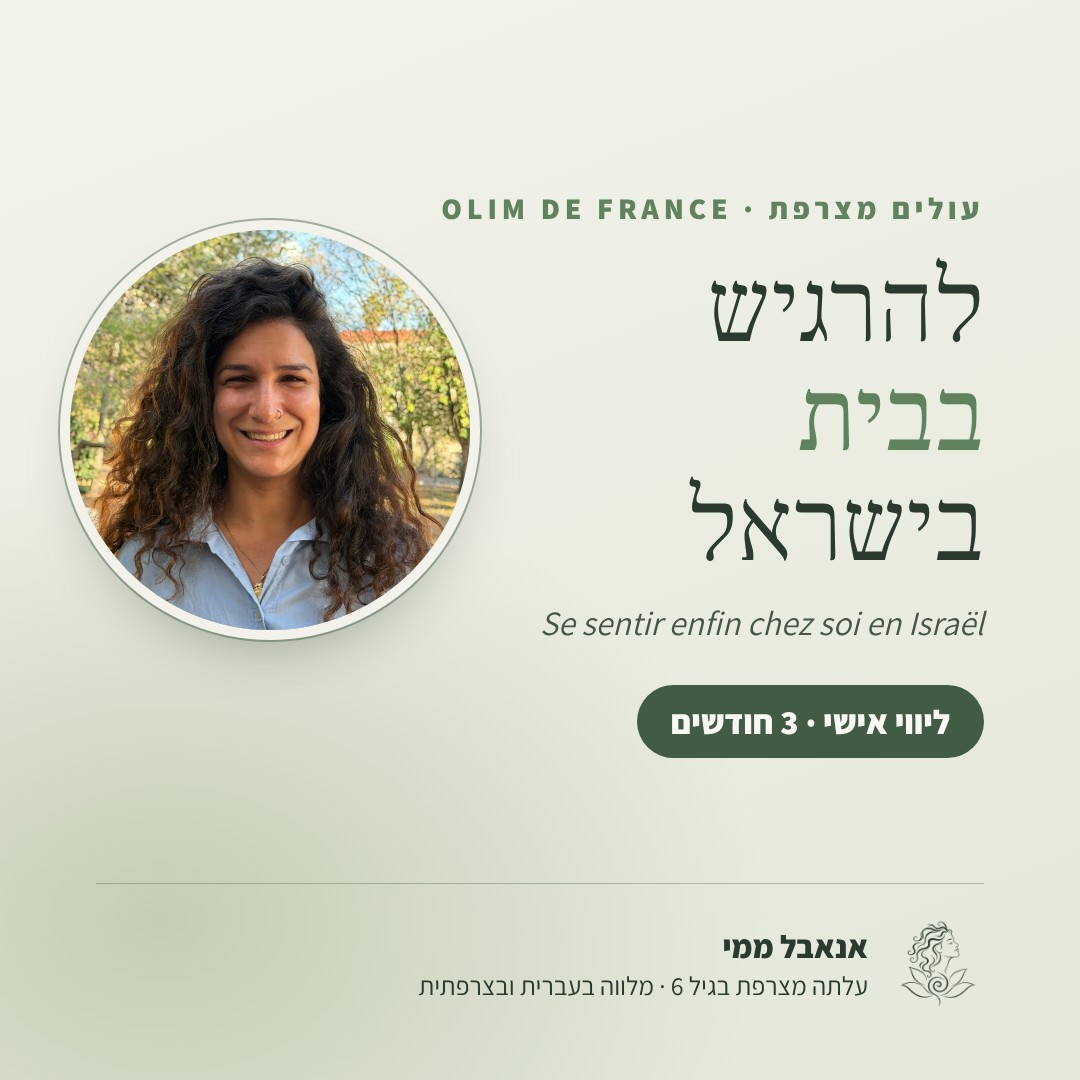
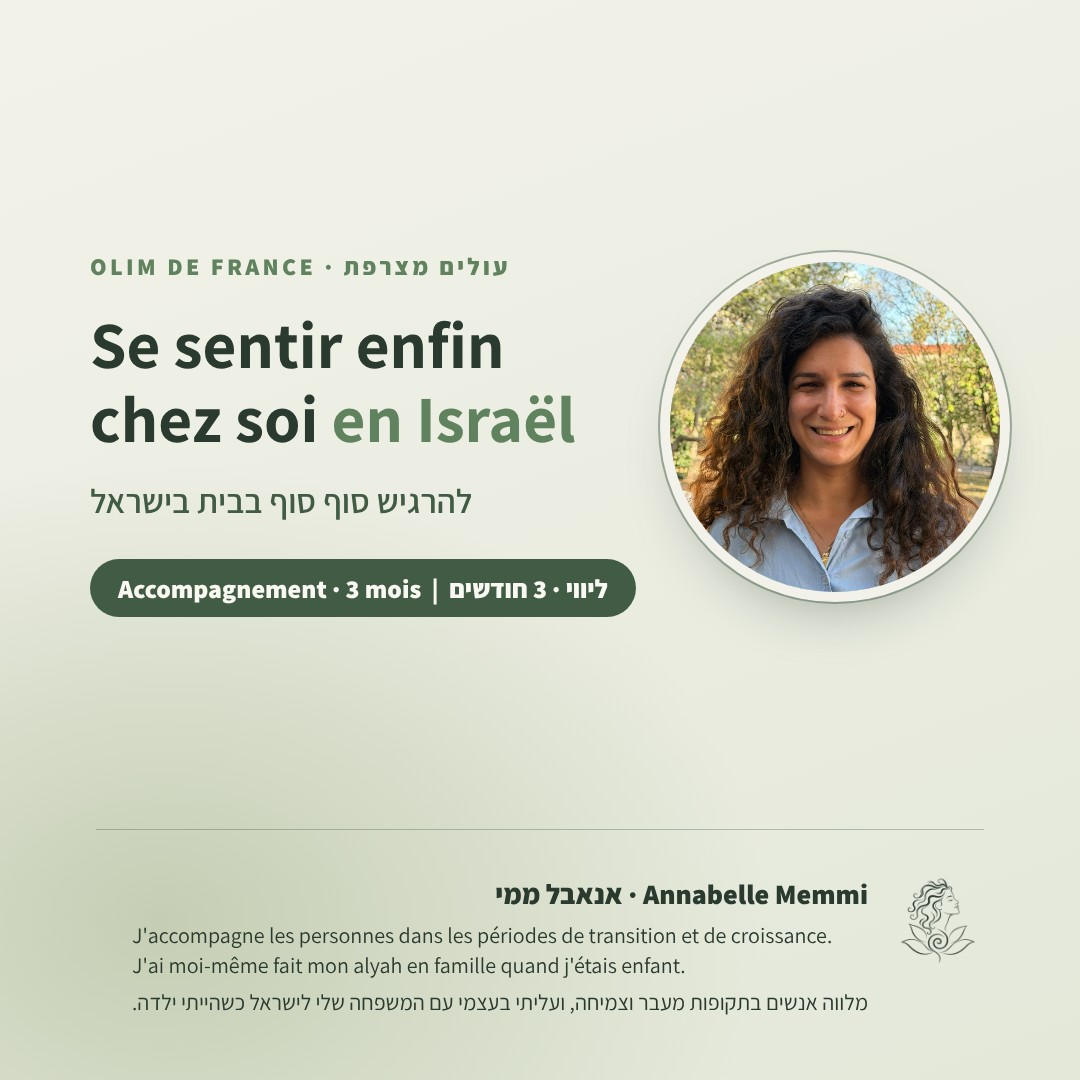
Catalog olim cards: French first, one font, calmer sizes, transition-and-growth line in French and Hebrew
Claude-Session: https://claude.ai/code/session_01Ur62TcEo8LSQkeiod8x8a5

diff --git a/assets/catalog/cards.html b/assets/catalog/cards.html
@@ -45,6 +45,21 @@
   .org .rule { background: rgba(168,181,145,.4); }
 
   .light .foot img { filter: brightness(0) saturate(100%) invert(19%) sepia(10%) saturate(800%) hue-rotate(80deg); }
+
+  /* olim: French first, one font (Assistant), calmer sizes */
+  .olim2 { padding: 0; justify-content: flex-start; }
+  .olim2 .ol { position: absolute; left: 90px; top: 250px; width: 560px; direction: ltr; text-align: left; }
+  .olim2 .kicker { font-size: 24px; letter-spacing: .14em; }
+  .olim2 .t-fr { margin: 26px 0 0; font-family: Assistant, sans-serif; font-weight: 700; font-size: 66px; line-height: 1.12; color: #2B3A2E; }
+  .olim2 .t-fr em { font-style: normal; color: #61825E; }
+  .olim2 .t-he { margin: 22px 0 0; direction: rtl; text-align: left; font-size: 34px; font-weight: 600; color: #415B44; }
+  .olim2 .pill { margin-top: 36px; font-size: 26px; padding: 12px 28px; }
+  .olim2 .photo { left: auto; right: 80px; top: 262px; width: 330px; height: 330px; }
+  .olim2 .rule { bottom: 250px; }
+  .foot--olim { align-items: flex-start; bottom: 56px; }
+  .foot--olim b { display: block; font-size: 28px; font-weight: 800; margin-bottom: 8px; }
+  .foot--olim p { margin: 0 0 6px; font-size: 22px; line-height: 1.4; }
+  .foot--olim p[dir=ltr] { text-align: left; }
 </style>
 </head>
 <body>
@@ -59,24 +74,36 @@
   <div class="foot"><img src="../img/logo-white.png" alt=""><p><b>אנאבל ממי</b>ליווי אנשים וארגונים בתהליכי שינוי וצמיחה</p></div>
 </div>
 
-<div class="card olim light" id="c2">
-  <p class="kicker">עולים מצרפת · OLIM DE FRANCE</p>
-  <h1>להרגיש<br><em>בבית</em><br>בישראל</h1>
-  <p class="fr" style="max-width:520px;margin-right:0">Se sentir enfin chez soi en Israël</p>
-  <span class="pill">ליווי אישי · 3 חודשים</span>
+<div class="card olim light olim2" id="c2">
+  <div class="ol">
+    <p class="kicker">OLIM DE FRANCE · עולים מצרפת</p>
+    <h2 class="t-fr">Se sentir enfin<br>chez soi <em>en Israël</em></h2>
+    <p class="t-he">להרגיש סוף סוף בבית בישראל</p>
+    <span class="pill">Accompagnement · 3 mois &nbsp;|&nbsp; ליווי · 3 חודשים</span>
+  </div>
   <img class="photo" src="annabelle-blue.jpg" alt="">
   <div class="rule"></div>
-  <div class="foot"><img src="../img/logo-white.png" alt=""><p><b>אנאבל ממי</b>עלתה מצרפת בגיל 6 · מלווה בעברית ובצרפתית</p></div>
+  <div class="foot foot--olim"><img src="../img/logo-white.png" alt=""><div>
+    <b>Annabelle Memmi · אנאבל ממי</b>
+    <p dir="ltr">J'accompagne les personnes dans les périodes de transition et de croissance.<br>J'ai moi-même fait mon alyah en famille quand j'étais enfant.</p>
+    <p>מלווה אנשים בתקופות מעבר וצמיחה, ועליתי בעצמי עם המשפחה שלי לישראל כשהייתי ילדה.</p>
+  </div></div>
 </div>
 
-<div class="card olim light" id="c3">
-  <p class="kicker">עולים מצרפת · OLIM DE FRANCE</p>
-  <h1>להרגיש<br><em>בבית</em><br>בישראל</h1>
-  <p class="fr" style="max-width:520px;margin-right:0">Se sentir enfin chez soi en Israël</p>
-  <span class="pill">ליווי אישי · 6 חודשים</span>
+<div class="card olim light olim2" id="c3">
+  <div class="ol">
+    <p class="kicker">OLIM DE FRANCE · עולים מצרפת</p>
+    <h2 class="t-fr">Se sentir enfin<br>chez soi <em>en Israël</em></h2>
+    <p class="t-he">להרגיש סוף סוף בבית בישראל</p>
+    <span class="pill">Accompagnement · 6 mois &nbsp;|&nbsp; ליווי · 6 חודשים</span>
+  </div>
   <img class="photo" src="annabelle-blue.jpg" alt="">
   <div class="rule"></div>
-  <div class="foot"><img src="../img/logo-white.png" alt=""><p><b>אנאבל ממי</b>עלתה מצרפת בגיל 6 · מלווה בעברית ובצרפתית</p></div>
+  <div class="foot foot--olim"><img src="../img/logo-white.png" alt=""><div>
+    <b>Annabelle Memmi · אנאבל ממי</b>
+    <p dir="ltr">J'accompagne les personnes dans les périodes de transition et de croissance.<br>J'ai moi-même fait mon alyah en famille quand j'étais enfant.</p>
+    <p>מלווה אנשים בתקופות מעבר וצמיחה, ועליתי בעצמי עם המשפחה שלי לישראל כשהייתי ילדה.</p>
+  </div></div>
 </div>
 
 <div class="card biz" id="c4">
